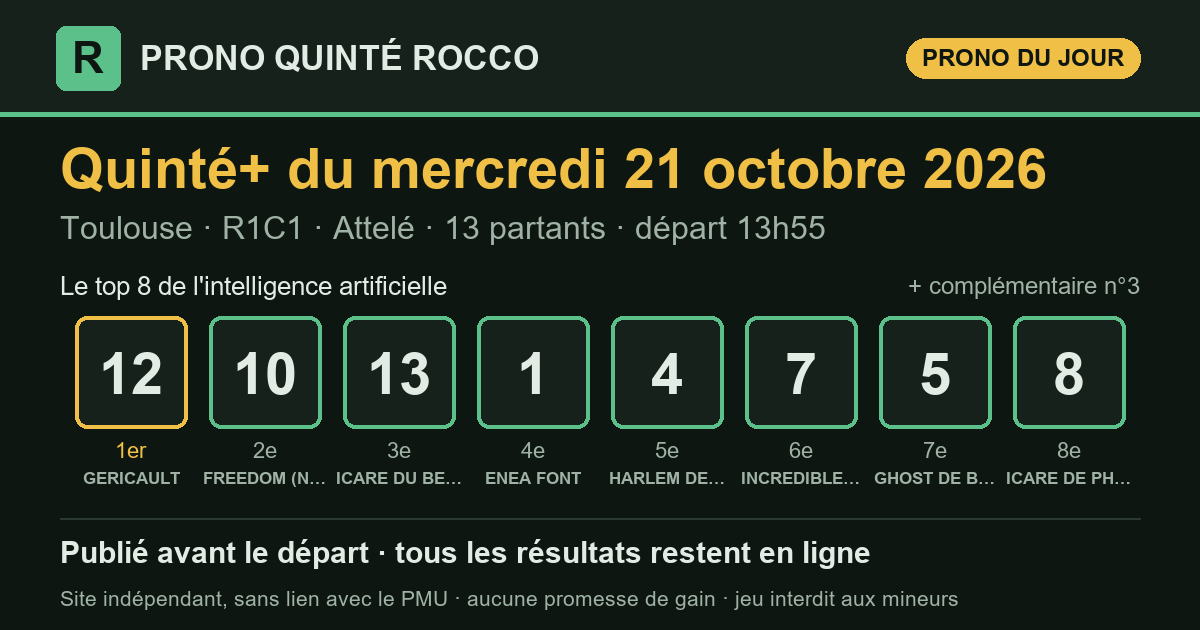
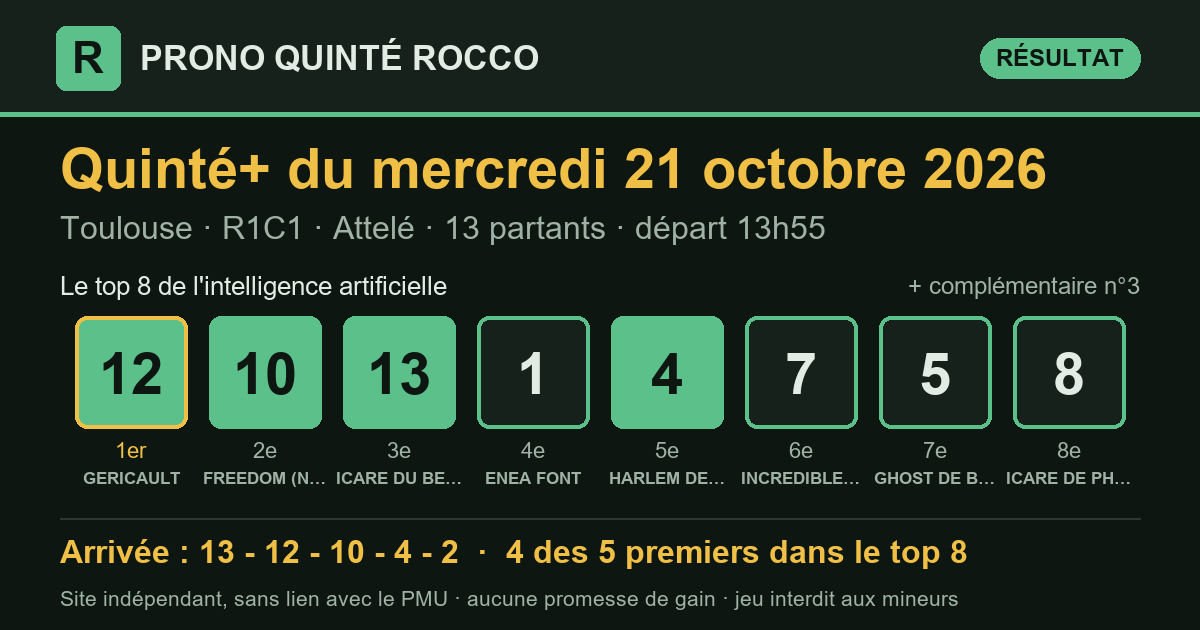
Prono Quinté+ 2026-10-21 Toulouse R1C1 — publié le 21/10/2026 14:08 (heure de Paris)

diff --git a/index.html b/index.html
@@ -16,7 +16,7 @@
 <meta property="og:title" content="Pronostic Quinté+ du mercredi 21 octobre 2026 — Prono Quinté Rocco">
 <meta property="og:description" content="Le pronostic du Quinté+ par intelligence artificielle, publié avant le départ, avec tous les résultats et le rendement réel.">
 <meta property="og:url" content="https://prono-quinte-rocco.fr/">
-<meta property="og:image" content="https://prono-quinte-rocco.fr/partage/2026-10-21.png?v=8801d818">
+<meta property="og:image" content="https://prono-quinte-rocco.fr/partage/2026-10-21.png?v=c53016b7">
 <meta property="og:image:type" content="image/png">
 <meta property="og:image:width" content="1200">
 <meta property="og:image:height" content="630">
@@ -31,15 +31,15 @@
 </header>
 <main>
 <section class="une" aria-labelledby="t-jour">
-  <p class="surtitre">Quinté+ du jour</p>
+  <p class="surtitre">Dernier Quinté+</p>
   <h1 id="t-jour">Le prono du Quinté+, résultats compris</h1>
   <p class="chapo">Chaque matin, une intelligence artificielle classe les partants du
   Quinté+. Le classement est publié avant le départ, puis comparé à l'arrivée
   officielle. Tous les résultats restent en ligne, les bons comme les mauvais.</p>
   <article class="carte-course">
-  <div class="tete"><h2>Mercredi 21 octobre 2026</h2><span class="etat attente">arrivée en attente</span></div>
+  <div class="tete"><h2>Mercredi 21 octobre 2026</h2><span class="etat place">4 des 5 premiers dans le top 8</span></div>
   <p class="meta">Toulouse · <strong>R1C1</strong> · Attelé · 13 partants · lisibilité <span class="note" aria-label="note 3 sur 5"><i class="on"></i><i class="on"></i><i class="on"></i><i class=""></i><i class=""></i></span> 3/5</p>
-  <ol class="partants" aria-label="Classement du prono"><li><span class="rang">1<sup>er</sup></span><span class="tapis ">12</span><span class="nom">GERICAULT</span></li><li><span class="rang">2<sup>e</sup></span><span class="tapis ">10</span><span class="nom">FREEDOM (NOR)</span></li><li><span class="rang">3<sup>e</sup></span><span class="tapis ">13</span><span class="nom">ICARE DU BERYL</span></li><li><span class="rang">4<sup>e</sup></span><span class="tapis ">1</span><span class="nom">ENEA FONT</span></li><li><span class="rang">5<sup>e</sup></span><span class="tapis ">4</span><span class="nom">HARLEM DE L&#x27;ITON</span></li><li><span class="rang">6<sup>e</sup></span><span class="tapis ">7</span><span class="nom">INCREDIBLE GO</span></li><li><span class="rang">7<sup>e</sup></span><span class="tapis ">5</span><span class="nom">GHOST DE BEAULIEU</span></li><li><span class="rang">8<sup>e</sup></span><span class="tapis ">8</span><span class="nom">ICARE DE PHYT&#x27;S</span></li><li><span class="rang">compl.</span><span class="tapis creux">3</span><span class="nom">INVICTUS NAR</span></li></ol>
+  <ol class="partants" aria-label="Classement du prono"><li><span class="rang">1<sup>er</sup></span><span class="tapis plein">12</span><span class="nom">GERICAULT</span></li><li><span class="rang">2<sup>e</sup></span><span class="tapis plein">10</span><span class="nom">FREEDOM (NOR)</span></li><li><span class="rang">3<sup>e</sup></span><span class="tapis plein">13</span><span class="nom">ICARE DU BERYL</span></li><li><span class="rang">4<sup>e</sup></span><span class="tapis ">1</span><span class="nom">ENEA FONT</span></li><li><span class="rang">5<sup>e</sup></span><span class="tapis plein">4</span><span class="nom">HARLEM DE L&#x27;ITON</span></li><li><span class="rang">6<sup>e</sup></span><span class="tapis ">7</span><span class="nom">INCREDIBLE GO</span></li><li><span class="rang">7<sup>e</sup></span><span class="tapis ">5</span><span class="nom">GHOST DE BEAULIEU</span></li><li><span class="rang">8<sup>e</sup></span><span class="tapis ">8</span><span class="nom">ICARE DE PHYT&#x27;S</span></li><li><span class="rang">compl.</span><span class="tapis creux">3</span><span class="nom">INVICTUS NAR</span></li></ol>
   <div class="pied-carte"><span>Analysé le 21/10 à 10:12 · en ligne le 21/10 à 10:28 · départ à 13:55 (heure de Paris)</span><span><a href="quinte/2026-10-21.html">Détail de la course</a></span></div>
 </article>
   <div class="legende"><span><span class="tapis plein petit">4</span> numéro dans les 5 premiers</span>
@@ -62,7 +62,7 @@
 </section>
 <section class="bilan" aria-labelledby="t-bilan">
   <h2 id="t-bilan">Le bilan depuis le 8 septembre 2026</h2>
-  <div class="tableau chiffres"><div class="case"><span class="gros ">75 %</span><span class="lib">des arrivants trouvés dans le top 8</span><span class="ref">un top 8 tiré au hasard : 51 %</span></div><div class="case"><span class="gros ">86 %</span><span class="lib">des gagnants présents dans le top 8</span><span class="ref"></span></div><div class="case"><span class="gros ">50 %</span><span class="lib">1er du prono placé</span><span class="ref">sur 42 Quintés</span></div><div class="case"><span class="gros perte">0,92 €</span><span class="lib">rendus pour 1 € joué placé sur le 1er</span><span class="ref">rapports officiels PMU</span></div><div class="case"><span class="gros perte">0,51 €</span><span class="lib">rendus pour 1 € joué en Quinté+ combiné top 8</span><span class="ref">56 combinaisons, rapports PMU.fr, sur 42 Quintés</span></div></div>
+  <div class="tableau chiffres"><div class="case"><span class="gros ">75 %</span><span class="lib">des arrivants trouvés dans le top 8</span><span class="ref">un top 8 tiré au hasard : 51 %</span></div><div class="case"><span class="gros ">86 %</span><span class="lib">des gagnants présents dans le top 8</span><span class="ref"></span></div><div class="case"><span class="gros ">50 %</span><span class="lib">1er du prono placé</span><span class="ref">sur 42 Quintés</span></div><div class="case"><span class="gros perte">0,92 €</span><span class="lib">rendus pour 1 € joué placé sur le 1er</span><span class="ref">rapports officiels PMU</span></div><div class="case"><span class="gros perte">0,50 €</span><span class="lib">rendus pour 1 € joué en Quinté+ combiné top 8</span><span class="ref">56 combinaisons, rapports PMU.fr, sur 43 Quintés</span></div></div>
   <p class="avertissement">Moins de 1 € rendu pour 1 € joué : suivre ce prono à la lettre fait <strong>perdre de l'argent</strong> sur cette période. Il sert à analyser une course, pas à promettre un gain.</p>
 </section>
 </main>

diff --git a/partants.html b/partants.html
@@ -35,59 +35,59 @@
     <p class="fiche-depart">Départ <b>13:55</b> <span>heure de Paris</span></p>
   </div>
   <p class="surtitre">Les pronostics ailleurs sur le web</p>
-  <div class="liens"><a class="lien-ext" href="https://www.turfoo.fr/programmes-courses/261021/reunion1-toulouse/course1-grand-prix-de-la-ville-rose/pronostics-presse/" rel="noopener" target="_blank"><b>Les pronostics de la presse →</b><span>sur Turfoo (site extérieur)</span></a><a class="lien-ext" href="https://www.geny.com/programme/2026-10-21" rel="noopener" target="_blank"><b>Partants et pronostics →</b><span>programme du jour sur Geny (site extérieur)</span></a></div>
+  <div class="liens"><a class="lien-ext" href="https://www.turfoo.fr/programmes-courses/261021/" rel="noopener" target="_blank"><b>Les pronostics de la presse →</b><span>sur Turfoo (site extérieur)</span></a><a class="lien-ext" href="https://www.geny.com/programme/2026-10-21" rel="noopener" target="_blank"><b>Partants et pronostics →</b><span>programme du jour sur Geny (site extérieur)</span></a></div>
   <div class="liste-boite"><table class="liste-partants">
     <thead><tr><th>N°</th><th>Cheval</th><th class="cote"><span class="long">Cote du matin</span><span class="court">Cote</span></th>
     <th class="ia"><span class="long">Prono IA</span><span class="court">IA</span></th></tr></thead>
     <tbody><tr>
   <td><span class="tapis petit">1</span></td>
   <td><span class="cheval">ENEA FONT</span><span class="sous">J. CHAVATTE · S. GUARATO</span></td>
-  <td class="cote num">8,4</td>
+  <td class="cote num">6,7</td>
   <td class="ia"><span class="etat place">4<sup>e</sup></span></td>
 </tr><tr>
   <td><span class="tapis petit">2</span></td>
   <td><span class="cheval">I AM PHYT&#x27;S</span><span class="sous">J.H. TREICH · J.H. TREICH</span></td>
-  <td class="cote num">45,0</td>
+  <td class="cote num">51,0</td>
   <td class="ia">—</td>
 </tr><tr>
   <td><span class="tapis petit">3</span></td>
   <td><span class="cheval">INVICTUS NAR</span><span class="sous">F. MARTY · F. MARTY</span></td>
-  <td class="cote num">33,0</td>
+  <td class="cote num">42,0</td>
   <td class="ia"><span class="etat place">compl.</span></td>
 </tr><tr>
   <td><span class="tapis petit">4</span></td>
   <td><span class="cheval">HARLEM DE L&#x27;ITON</span><span class="sous">M. CINIER · D. CINIER</span></td>
-  <td class="cote num">13,0</td>
+  <td class="cote num">15,0</td>
   <td class="ia"><span class="etat place">5<sup>e</sup></span></td>
 </tr><tr>
   <td><span class="tapis petit">5</span></td>
   <td><span class="cheval">GHOST DE BEAULIEU</span><span class="sous">P. GERAY · J. ASSELIE</span></td>
-  <td class="cote num">15,0</td>
+  <td class="cote num">18,0</td>
   <td class="ia"><span class="etat place">7<sup>e</sup></span></td>
 </tr><tr>
   <td><span class="tapis petit">6</span></td>
   <td><span class="cheval">IRRATI DUEM</span><span class="sous">PIERRICK LE MOEL · C. HERSERANT</span></td>
-  <td class="cote num">29,0</td>
+  <td class="cote num">32,0</td>
   <td class="ia">—</td>
 </tr><tr>
   <td><span class="tapis petit">7</span></td>
   <td><span class="cheval">INCREDIBLE GO</span><span class="sous">TH. DUCOS · F. TERRY</span></td>
-  <td class="cote num">14,0</td>
+  <td class="cote num">16,0</td>
   <td class="ia"><span class="etat place">6<sup>e</sup></span></td>
 </tr><tr>
   <td><span class="tapis petit">8</span></td>
   <td><span class="cheval">ICARE DE PHYT&#x27;S</span><span class="sous">M. GRASSET · S. LALOUM</span></td>
-  <td class="cote num">21,0</td>
+  <td class="cote num">23,0</td>
   <td class="ia"><span class="etat place">8<sup>e</sup></span></td>
 </tr><tr>
   <td><span class="tapis petit">9</span></td>
   <td><span class="cheval">HELIOS D&#x27;ELA</span><span class="sous">C. GAZENGEL · C. GAZENGEL</span></td>
-  <td class="cote num">58,0</td>
+  <td class="cote num">71,0</td>
   <td class="ia">—</td>
 </tr><tr>
   <td><span class="tapis petit">10</span></td>
   <td><span class="cheval">FREEDOM (NOR)</span><span class="sous">O. RAFFIN · O. RAFFIN</span></td>
-  <td class="cote num">4,0</td>
+  <td class="cote num">3,7</td>
   <td class="ia"><span class="etat place">2<sup>e</sup></span></td>
 </tr><tr>
   <td><span class="tapis petit">11</span></td>
@@ -97,17 +97,17 @@
 </tr><tr>
   <td><span class="tapis petit">12</span></td>
   <td><span class="cheval">GERICAULT</span><span class="sous">TH. BRIAND · V. MARTENS</span></td>
-  <td class="cote num">3,7</td>
+  <td class="cote num">3,5</td>
   <td class="ia"><span class="etat place">1<sup>er</sup></span></td>
 </tr><tr>
   <td><span class="tapis petit">13</span></td>
   <td><span class="cheval">ICARE DU BERYL</span><span class="sous">M. CRIADO · Y. LACOMBE</span></td>
-  <td class="cote num">6,1</td>
+  <td class="cote num">6,9</td>
   <td class="ia"><span class="etat place">3<sup>e</sup></span></td>
 </tr></tbody>
   </table></div>
   <p class="meta">Le rang du prono IA est celui publié sur ce site. Sous chaque cheval : driver · entraîneur. Partants et cotes : programme
-  officiel du PMU, lu le 21/10 à 10:28 (heure de Paris). NP = non-partant.</p>
+  officiel du PMU, lu le 21/10 à 14:08 (heure de Paris). NP = non-partant.</p>
 </section>
 </main>
 <footer class="pied">

diff --git a/quinte/2026-10-21.html b/quinte/2026-10-21.html
@@ -16,7 +16,7 @@
 <meta property="og:title" content="Pronostic Quinté+ du mercredi 21 octobre 2026 à Toulouse — Prono Quinté Rocco">
 <meta property="og:description" content="Prono Quinté+ du mercredi 21 octobre 2026 (Toulouse) : top 8, arrivée officielle et rapports PMU.fr.">
 <meta property="og:url" content="https://prono-quinte-rocco.fr/quinte/2026-10-21.html">
-<meta property="og:image" content="https://prono-quinte-rocco.fr/partage/2026-10-21.png?v=8801d818">
+<meta property="og:image" content="https://prono-quinte-rocco.fr/partage/2026-10-21.png?v=c53016b7">
 <meta property="og:image:type" content="image/png">
 <meta property="og:image:width" content="1200">
 <meta property="og:image:height" content="630">
@@ -35,11 +35,19 @@
   <h1>Pronostic Quinté+ du mercredi 21 octobre 2026</h1>
   <p class="chapo">Toulouse · R1C1 · Attelé · 13 partants</p>
   <article class="carte-course">
-  <div class="tete"><h2>Le prono : top 8 et complémentaire</h2><span class="etat attente">arrivée en attente</span></div>
+  <div class="tete"><h2>Le prono : top 8 et complémentaire</h2><span class="etat place">4 des 5 premiers dans le top 8</span></div>
   <p class="meta">Toulouse · <strong>R1C1</strong> · Attelé · 13 partants · lisibilité <span class="note" aria-label="note 3 sur 5"><i class="on"></i><i class="on"></i><i class="on"></i><i class=""></i><i class=""></i></span> 3/5</p>
-  <ol class="partants" aria-label="Classement du prono"><li><span class="rang">1<sup>er</sup></span><span class="tapis ">12</span><span class="nom">GERICAULT</span></li><li><span class="rang">2<sup>e</sup></span><span class="tapis ">10</span><span class="nom">FREEDOM (NOR)</span></li><li><span class="rang">3<sup>e</sup></span><span class="tapis ">13</span><span class="nom">ICARE DU BERYL</span></li><li><span class="rang">4<sup>e</sup></span><span class="tapis ">1</span><span class="nom">ENEA FONT</span></li><li><span class="rang">5<sup>e</sup></span><span class="tapis ">4</span><span class="nom">HARLEM DE L&#x27;ITON</span></li><li><span class="rang">6<sup>e</sup></span><span class="tapis ">7</span><span class="nom">INCREDIBLE GO</span></li><li><span class="rang">7<sup>e</sup></span><span class="tapis ">5</span><span class="nom">GHOST DE BEAULIEU</span></li><li><span class="rang">8<sup>e</sup></span><span class="tapis ">8</span><span class="nom">ICARE DE PHYT&#x27;S</span></li><li><span class="rang">compl.</span><span class="tapis creux">3</span><span class="nom">INVICTUS NAR</span></li></ol>
+  <ol class="partants" aria-label="Classement du prono"><li><span class="rang">1<sup>er</sup></span><span class="tapis plein">12</span><span class="nom">GERICAULT</span></li><li><span class="rang">2<sup>e</sup></span><span class="tapis plein">10</span><span class="nom">FREEDOM (NOR)</span></li><li><span class="rang">3<sup>e</sup></span><span class="tapis plein">13</span><span class="nom">ICARE DU BERYL</span></li><li><span class="rang">4<sup>e</sup></span><span class="tapis ">1</span><span class="nom">ENEA FONT</span></li><li><span class="rang">5<sup>e</sup></span><span class="tapis plein">4</span><span class="nom">HARLEM DE L&#x27;ITON</span></li><li><span class="rang">6<sup>e</sup></span><span class="tapis ">7</span><span class="nom">INCREDIBLE GO</span></li><li><span class="rang">7<sup>e</sup></span><span class="tapis ">5</span><span class="nom">GHOST DE BEAULIEU</span></li><li><span class="rang">8<sup>e</sup></span><span class="tapis ">8</span><span class="nom">ICARE DE PHYT&#x27;S</span></li><li><span class="rang">compl.</span><span class="tapis creux">3</span><span class="nom">INVICTUS NAR</span></li></ol>
   <div class="pied-carte"><span>Analysé le 21/10 à 10:12 · en ligne le 21/10 à 10:28 · départ à 13:55 (heure de Paris)</span><span></span></div>
 </article>
+<section class="carte-course" aria-labelledby="t-arr">
+  <div class="tete"><h2 id="t-arr">Arrivée officielle</h2></div>
+  <div class="rangee"><span class="tapis plein" title="1er">13</span><span class="tapis plein" title="2e">12</span><span class="tapis plein" title="3e">10</span><span class="tapis plein" title="4e">4</span><span class="tapis creux" title="5e">2</span></div>
+  <div class="deux">
+    <div><h3>Ce qu'aurait rendu le prono</h3><dl class="kv"><dt>1 € placé sur le 1er (n°12)</dt><dd>rapport manquant</dd><dt>1 € gagnant sur le 1er</dt><dd>rapport manquant</dd><dt>Quinté+ combiné top 8 (mise 112 €)</dt><dd>22,00 €</dd><dt>dont</dt><dd>Bonus 4sur5 × 4, Bonus 3 × 6</dd></dl></div>
+    <div><h3>Rapports officiels</h3><dl class="kv"><dt>e-Quinté+ Ordre (2 €)</dt><dd>1 624,80 €</dd><dt>e-Quinté+ Désordre (2 €)</dt><dd>21,40 €</dd><dt>e-Bonus 4sur5 (2 €)</dt><dd>2,20 €</dd><dt>e-Bonus 3 (2 €)</dt><dd>2,20 €</dd></dl></div>
+  </div>
+</section>
 </section>
 </main>
 <footer class="pied">

diff --git a/resultats.html b/resultats.html
@@ -39,8 +39,8 @@
     <tbody><tr>
   <td class="c-date"><a href="quinte/2026-10-21.html">21/10</a></td>
   <td class="c-course">Toulouse<br><span class="meta">R1C1 · Attelé</span></td>
-  <td data-label="Top 8 du prono"><div class="rangee"><span class="tapis petit">12</span><span class="tapis petit">10</span><span class="tapis petit">13</span><span class="tapis petit">1</span><span class="tapis petit">4</span><span class="tapis petit">7</span><span class="tapis petit">5</span><span class="tapis petit">8</span></div></td><td data-label="Arrivée"><span class="etat attente">en attente</span></td>
-  <td class="num" data-label="Trouvés">—</td><td data-label="1er du prono"><span class="etat attente">—</span></td><td class="mont" data-label="Quinté+ top 8 (mise 112 €)">—</td>
+  <td data-label="Top 8 du prono"><div class="rangee"><span class="tapis plein petit">12</span><span class="tapis plein petit">10</span><span class="tapis plein petit">13</span><span class="tapis petit">1</span><span class="tapis plein petit">4</span><span class="tapis petit">7</span><span class="tapis petit">5</span><span class="tapis petit">8</span></div></td><td data-label="Arrivée"><div class="rangee"><span class="tapis plein petit" title="1er">13</span><span class="tapis plein petit" title="2e">12</span><span class="tapis plein petit" title="3e">10</span><span class="tapis plein petit" title="4e">4</span><span class="tapis creux petit" title="5e">2</span></div></td>
+  <td class="num" data-label="Trouvés">4/5</td><td data-label="1er du prono"><span class="etat place">placé</span></td><td class="mont perte" data-label="Quinté+ top 8 (mise 112 €)">22,00 €</td>
 </tr><tr>
   <td class="c-date"><a href="quinte/2026-10-20.html">20/10</a></td>
   <td class="c-course">Clairefontaine<br><span class="meta">R1C1 · Plat</span></td>
@@ -256,7 +256,7 @@
 </section>
 <section class="bilan" aria-labelledby="t-bilan">
   <h2 id="t-bilan">Le bilan depuis le 8 septembre 2026</h2>
-  <div class="tableau chiffres"><div class="case"><span class="gros ">75 %</span><span class="lib">des arrivants trouvés dans le top 8</span><span class="ref">un top 8 tiré au hasard : 51 %</span></div><div class="case"><span class="gros ">86 %</span><span class="lib">des gagnants présents dans le top 8</span><span class="ref"></span></div><div class="case"><span class="gros ">50 %</span><span class="lib">1er du prono placé</span><span class="ref">sur 42 Quintés</span></div><div class="case"><span class="gros perte">0,92 €</span><span class="lib">rendus pour 1 € joué placé sur le 1er</span><span class="ref">rapports officiels PMU</span></div><div class="case"><span class="gros perte">0,51 €</span><span class="lib">rendus pour 1 € joué en Quinté+ combiné top 8</span><span class="ref">56 combinaisons, rapports PMU.fr, sur 42 Quintés</span></div></div>
+  <div class="tableau chiffres"><div class="case"><span class="gros ">75 %</span><span class="lib">des arrivants trouvés dans le top 8</span><span class="ref">un top 8 tiré au hasard : 51 %</span></div><div class="case"><span class="gros ">86 %</span><span class="lib">des gagnants présents dans le top 8</span><span class="ref"></span></div><div class="case"><span class="gros ">50 %</span><span class="lib">1er du prono placé</span><span class="ref">sur 42 Quintés</span></div><div class="case"><span class="gros perte">0,92 €</span><span class="lib">rendus pour 1 € joué placé sur le 1er</span><span class="ref">rapports officiels PMU</span></div><div class="case"><span class="gros perte">0,50 €</span><span class="lib">rendus pour 1 € joué en Quinté+ combiné top 8</span><span class="ref">56 combinaisons, rapports PMU.fr, sur 43 Quintés</span></div></div>
   <p class="avertissement">Moins de 1 € rendu pour 1 € joué : suivre ce prono à la lettre fait <strong>perdre de l'argent</strong> sur cette période. Il sert à analyser une course, pas à promettre un gain.</p>
 </section>
 </main>
